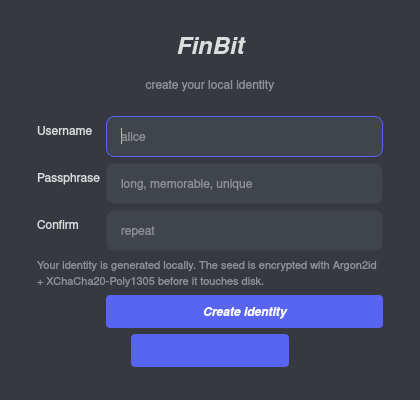
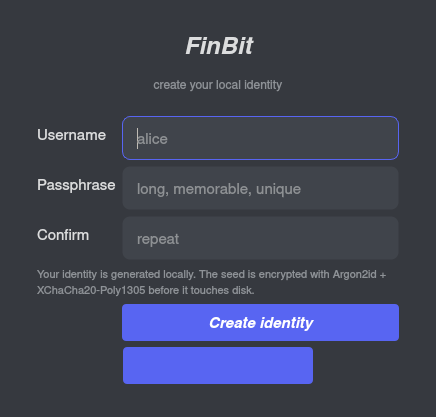
README: fresh screenshots showing TLS connect bar + serverless UI
Re-captured both screenshots from the current build via Qt's built-in
FB_SNAPSHOT_LOGIN / FB_SNAPSHOT widget-grab paths (no compositor / no
window decorations, deterministic across runs). The login dialog
shows the Argon2id+XChaCha20-Poly1305 first-run flow as before; the
main UI now shows the TLS / (insecure) / CA... trio in the connect
bar, the connected status banner, and the Show log button.

diff --git a/README.md b/README.md
@@ -15,12 +15,11 @@ UI, Signal-grade crypto, your own relay. **C++20** core compiled native (desktop
 | Login dialog | <img src="docs/screenshots/desktop-login.png" width="320"/> | (similar — `client-web/ui/login_ui.js`) |
 | Main UI | <img src="docs/screenshots/desktop-main.png" width="640"/> | Discord-style HTML/CSS/JS in `client-web/ui/` |
 
-> Screenshots are from an early build. The current connect bar adds a
-> `TLS / (insecure) / CA…` trio for direct `wss://` to a relay (no
-> reverse proxy needed), the channel-create dialog has an "MLS
-> encryption?" checkbox, and the activity log surfaces serverless
-> overlay events (`peer-net listening`, `dht published`, `gossip
-> joined fb-chan:…`) once the env-driven P2P stack is enabled.
+> The connect bar's `TLS / (insecure) / CA…` trio drives a direct
+> `wss://` to the relay (no reverse proxy needed). The channel-create
+> dialog has an "MLS encryption?" checkbox. **Show log** surfaces
+> serverless overlay events (`peer-net listening`, `dht published`,
+> `gossip joined fb-chan:…`) once the env-driven P2P stack is on.
 
 ## What's real today
 
